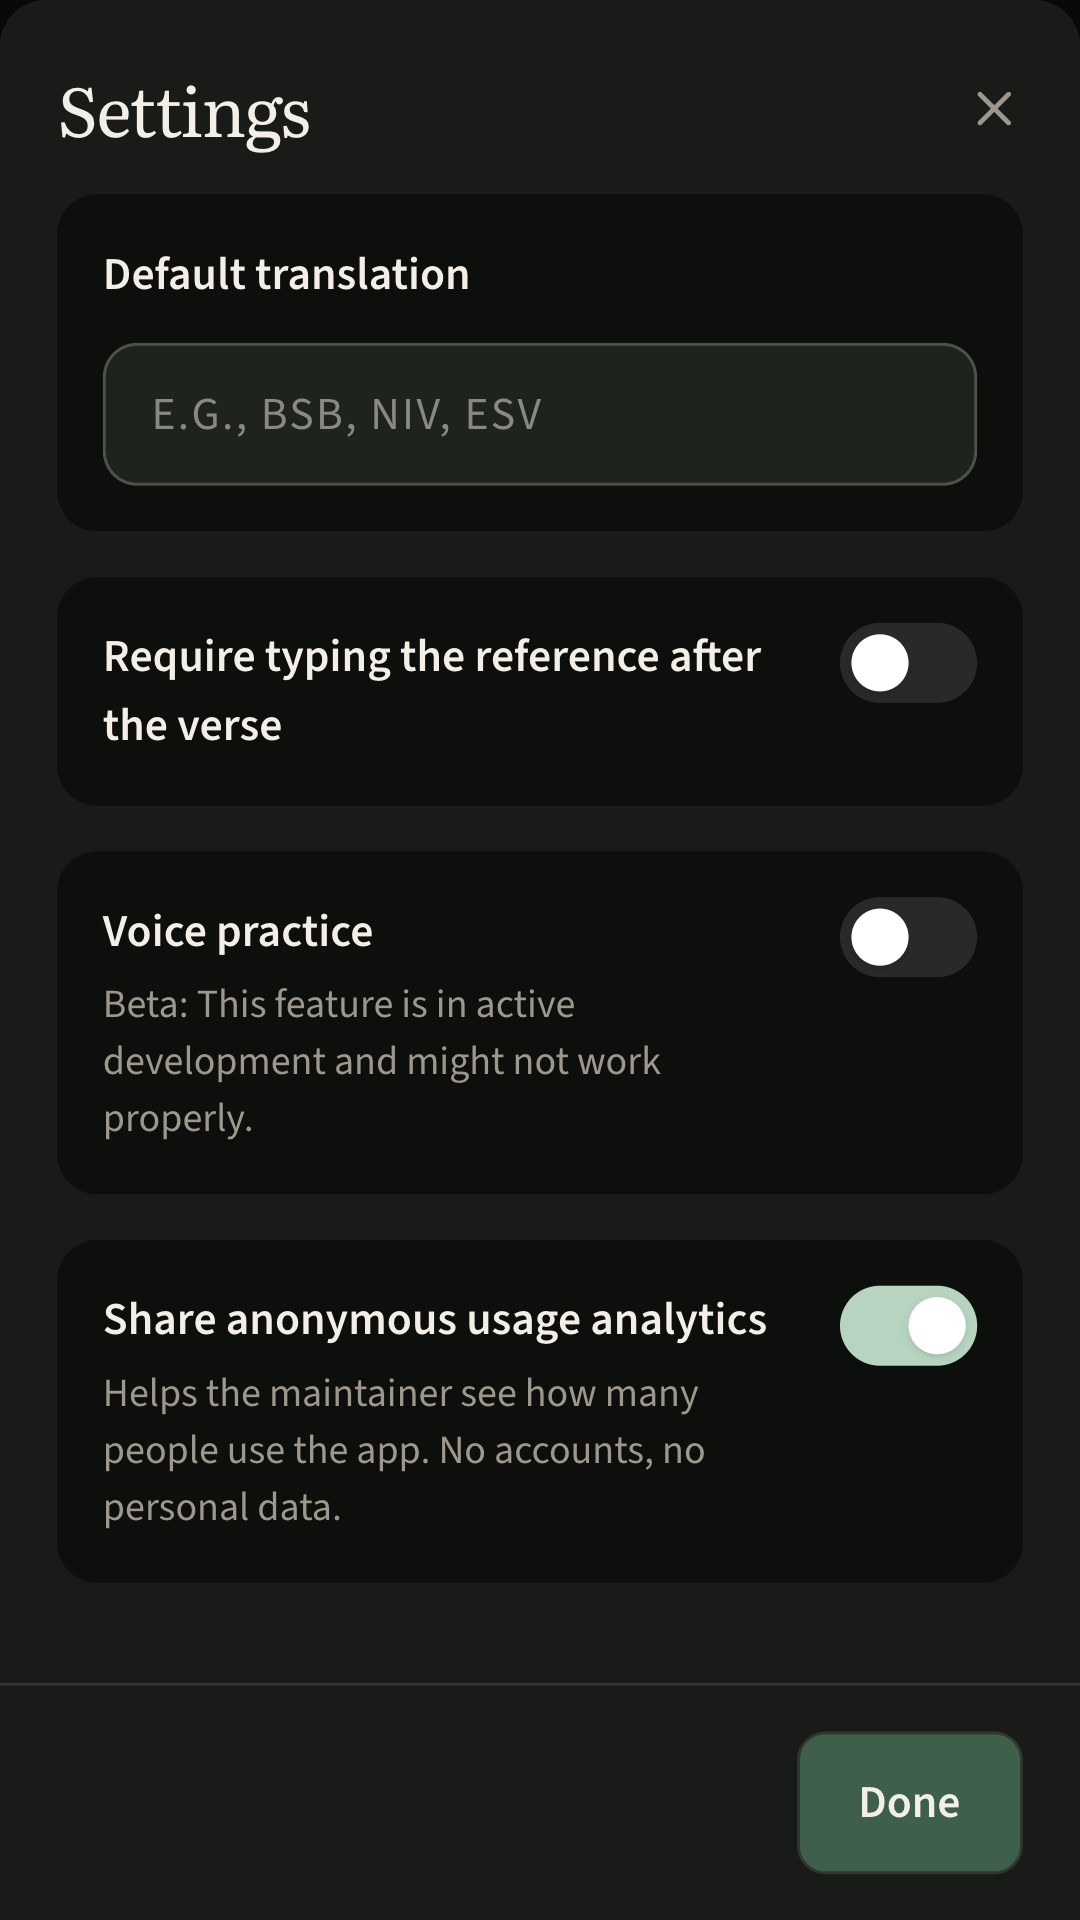
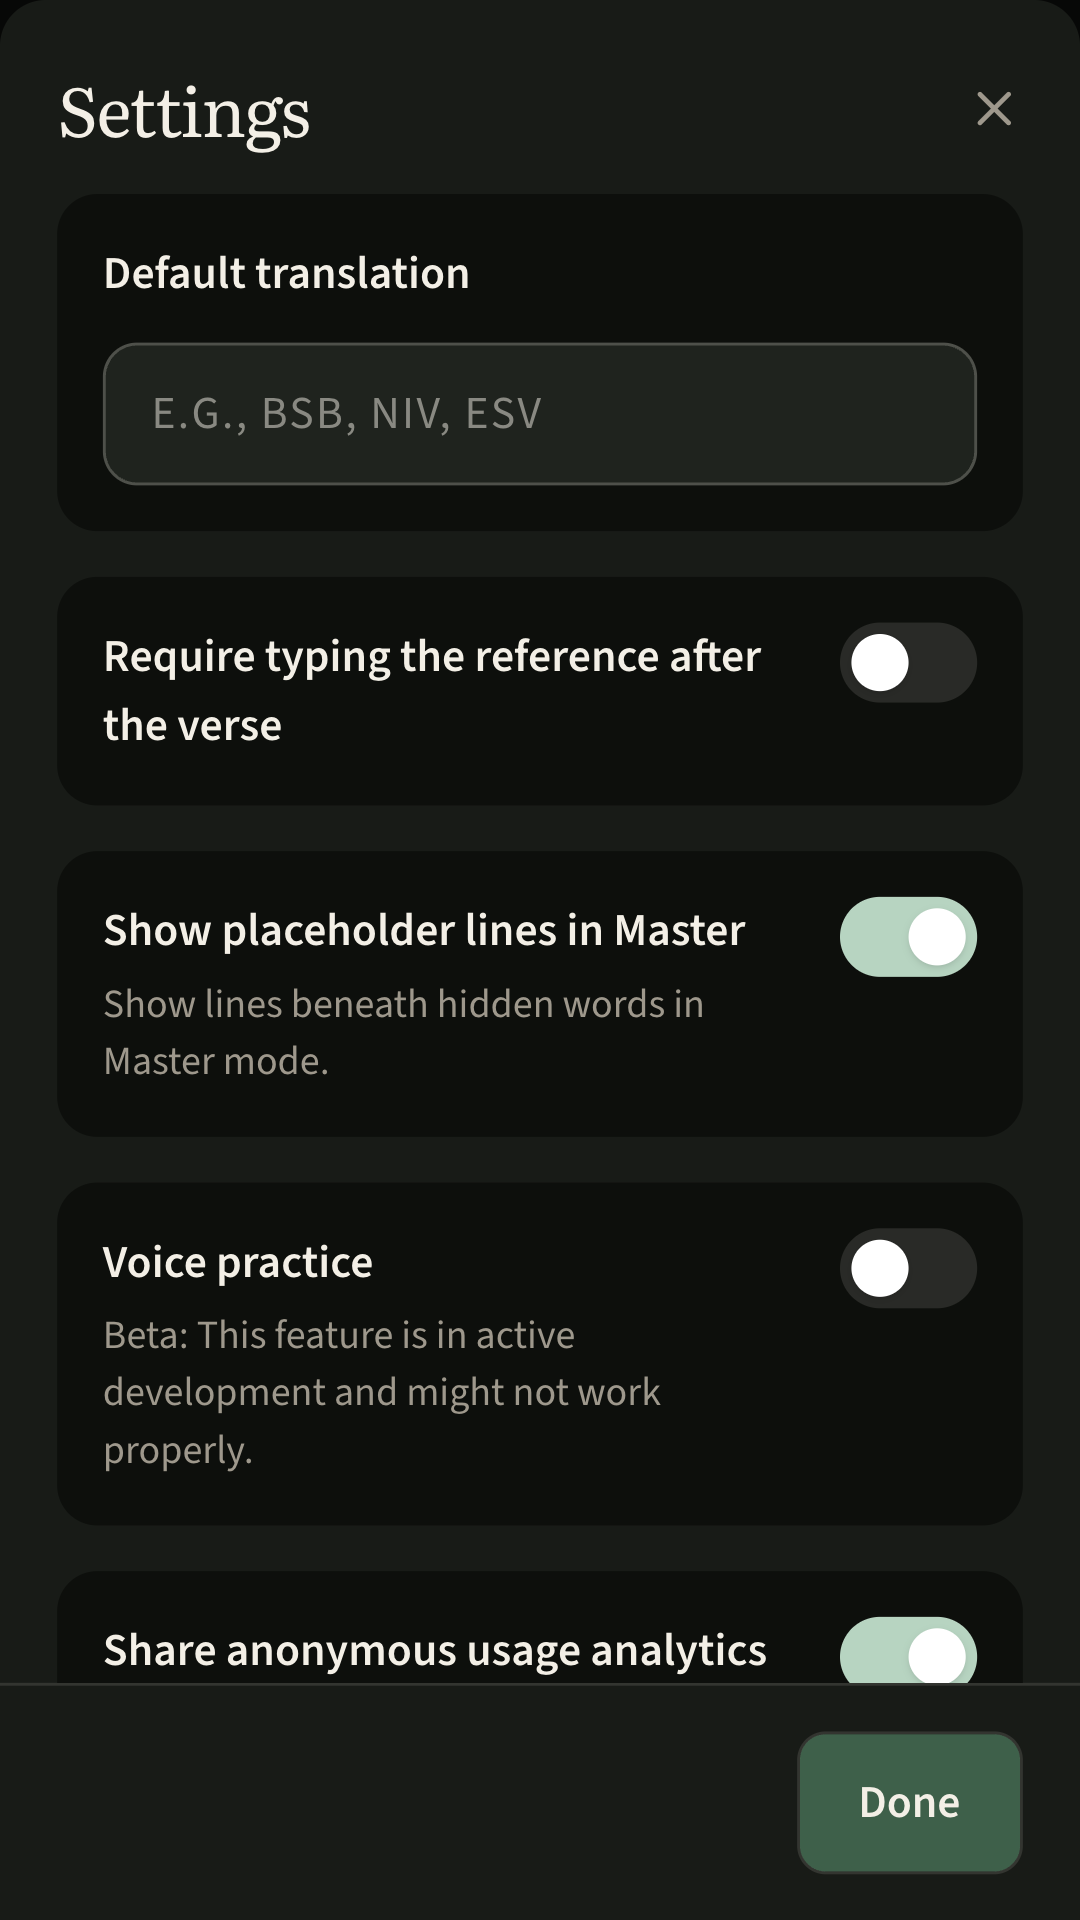
feat: allow hiding placeholder lines in Master
Closes #171

diff --git a/src/App.vue b/src/App.vue
@@ -148,6 +148,7 @@
         ref="memorizationPracticeRef"
         :verse="memorizingVerse"
         :memorization-mode="memorizationMode"
+        :show-master-placeholder-lines="appSettings.showMasterPlaceholderLines"
         :review-words="reviewWords"
         :current-word-index="currentPracticeWordIndex"
         :input-mode="practiceInputMode"
@@ -265,6 +266,7 @@
         ref="reviewPracticeRef"
         :verse="reviewingVerse"
         :memorization-mode="memorizationMode"
+        :show-master-placeholder-lines="appSettings.showMasterPlaceholderLines"
         :review-words="reviewWords"
         :current-word-index="currentPracticeWordIndex"
         :input-mode="practiceInputMode"
@@ -2152,6 +2154,34 @@ Philippians 2:3,"Value others above yourselves",NIV,Core Values/Humility,30,60</
                 />
               </button>
             </label>
+          </div>
+          <div class="rounded-xl bg-sunken p-4">
+            <div class="flex items-start gap-4">
+              <div class="flex-1">
+                <p id="master-placeholder-lines-setting-label" class="text-base font-semibold text-text-primary">Show placeholder lines in Master</p>
+                <p id="master-placeholder-lines-setting-description" class="mt-1 text-sm text-text-muted">Show lines beneath hidden words in Master mode.</p>
+              </div>
+              <button
+                type="button"
+                role="switch"
+                aria-labelledby="master-placeholder-lines-setting-label"
+                aria-describedby="master-placeholder-lines-setting-description"
+                :aria-checked="appSettings.showMasterPlaceholderLines"
+                data-testid="master-placeholder-lines-toggle"
+                :class="[
+                  'relative inline-flex h-7 w-12 shrink-0 rounded-full transition-colors duration-200',
+                  appSettings.showMasterPlaceholderLines ? 'bg-accent-strong' : 'bg-border-default'
+                ]"
+                @click="updateShowMasterPlaceholderLines(!appSettings.showMasterPlaceholderLines)"
+              >
+                <span
+                  :class="[
+                    'inline-block h-5 w-5 rounded-full bg-white shadow transition-transform duration-200 mt-1',
+                    appSettings.showMasterPlaceholderLines ? 'translate-x-6' : 'translate-x-1'
+                  ]"
+                />
+              </button>
+            </div>
           </div>
           <div class="rounded-xl bg-sunken p-4">
             <div class="flex items-start gap-4">
@@ -9171,6 +9201,13 @@ export default {
       trackLegacyAppProfile()
     }
 
+    const updateShowMasterPlaceholderLines = (enabled) => {
+      saveAppSettingsLocally({
+        ...appSettings.value,
+        showMasterPlaceholderLines: enabled
+      })
+    }
+
     const updateVoicePracticeEnabled = (enabled) => {
       saveAppSettingsLocally({
         ...appSettings.value,
@@ -10125,6 +10162,7 @@ export default {
       manualSync,
       manualSyncFromDrawer,
       updateRequireReferenceTyping,
+      updateShowMasterPlaceholderLines,
       updateVoicePracticeEnabled,
       updateDefaultBibleVersion,
       handleDefaultBibleVersionFocus,

diff --git a/src/components/VersePracticeView.vue b/src/components/VersePracticeView.vue
@@ -18,7 +18,10 @@
         v-for="panel in practicePanels"
         :key="panel.key"
         class="practice-swipe-panel flex flex-col min-h-0 sm:px-4"
-        :class="{ 'practice-swipe-panel--active': panel.isCurrent }"
+        :class="{
+          'practice-swipe-panel--active': panel.isCurrent,
+          'practice-swipe-panel--hide-placeholder-lines': panel.mode === 'master' && !showMasterPlaceholderLines
+        }"
         :aria-hidden="!panel.isCurrent"
         :inert="!panel.isCurrent ? '' : null"
       >
@@ -250,6 +253,7 @@ export default {
   props: {
     verse: { type: Object, default: null },
     memorizationMode: { type: String, default: null },
+    showMasterPlaceholderLines: { type: Boolean, default: true },
     reviewWords: { type: Array, default: () => [] },
     currentWordIndex: { type: Number, default: -1 },
     context: { type: String, validator: (v) => ['memorization', 'review'].includes(v) },
@@ -849,6 +853,10 @@ export default {
 
 .practice-word {
   position: relative;
+}
+
+.practice-swipe-panel--hide-placeholder-lines .word-blank {
+  border-bottom-color: transparent;
 }
 
 .practice-stage-shell {

diff --git a/src/app-settings.js b/src/app-settings.js
@@ -4,6 +4,7 @@ const APP_SETTINGS_KEY = 'rum1n8-app-settings'
 
 export const DEFAULT_APP_SETTINGS = Object.freeze({
   requireReferenceTyping: false,
+  showMasterPlaceholderLines: true,
   voicePracticeEnabled: false,
   analyticsOptOut: false,
   defaultBibleVersion: '',
@@ -27,6 +28,7 @@ export function normalizeAppSettings(settings = {}) {
     ...DEFAULT_APP_SETTINGS,
     ...settings,
     requireReferenceTyping: !!settings.requireReferenceTyping,
+    showMasterPlaceholderLines: settings.showMasterPlaceholderLines !== false,
     voicePracticeEnabled: !!settings.voicePracticeEnabled,
     analyticsOptOut: !!settings.analyticsOptOut,
     defaultBibleVersion,
